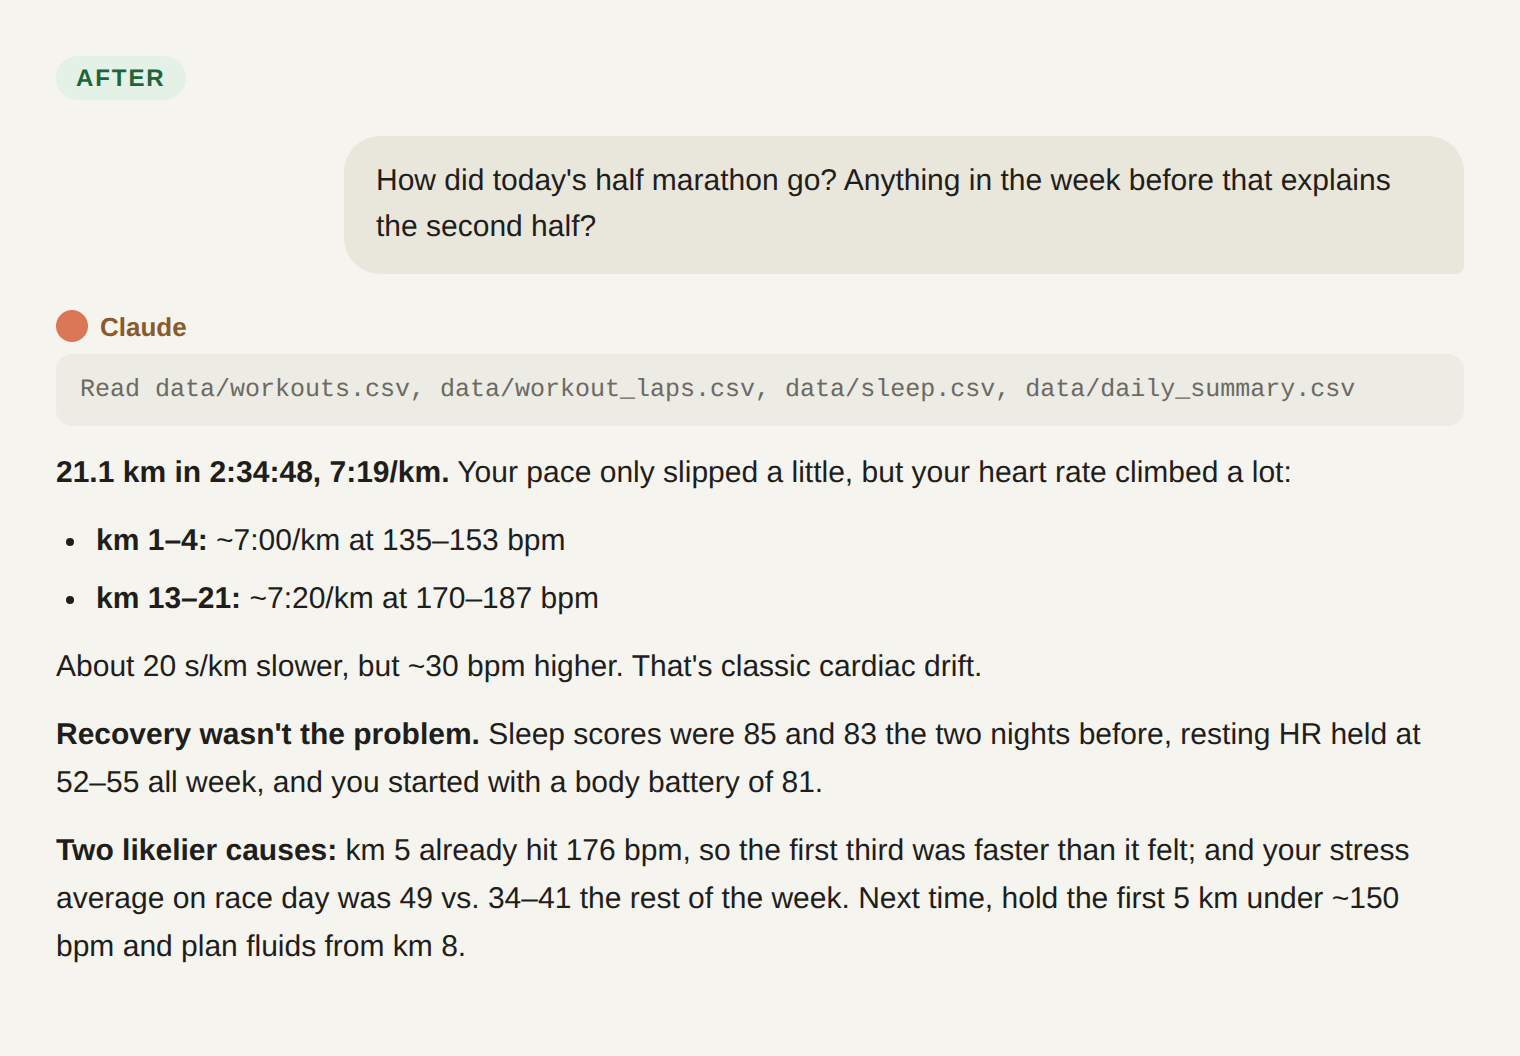
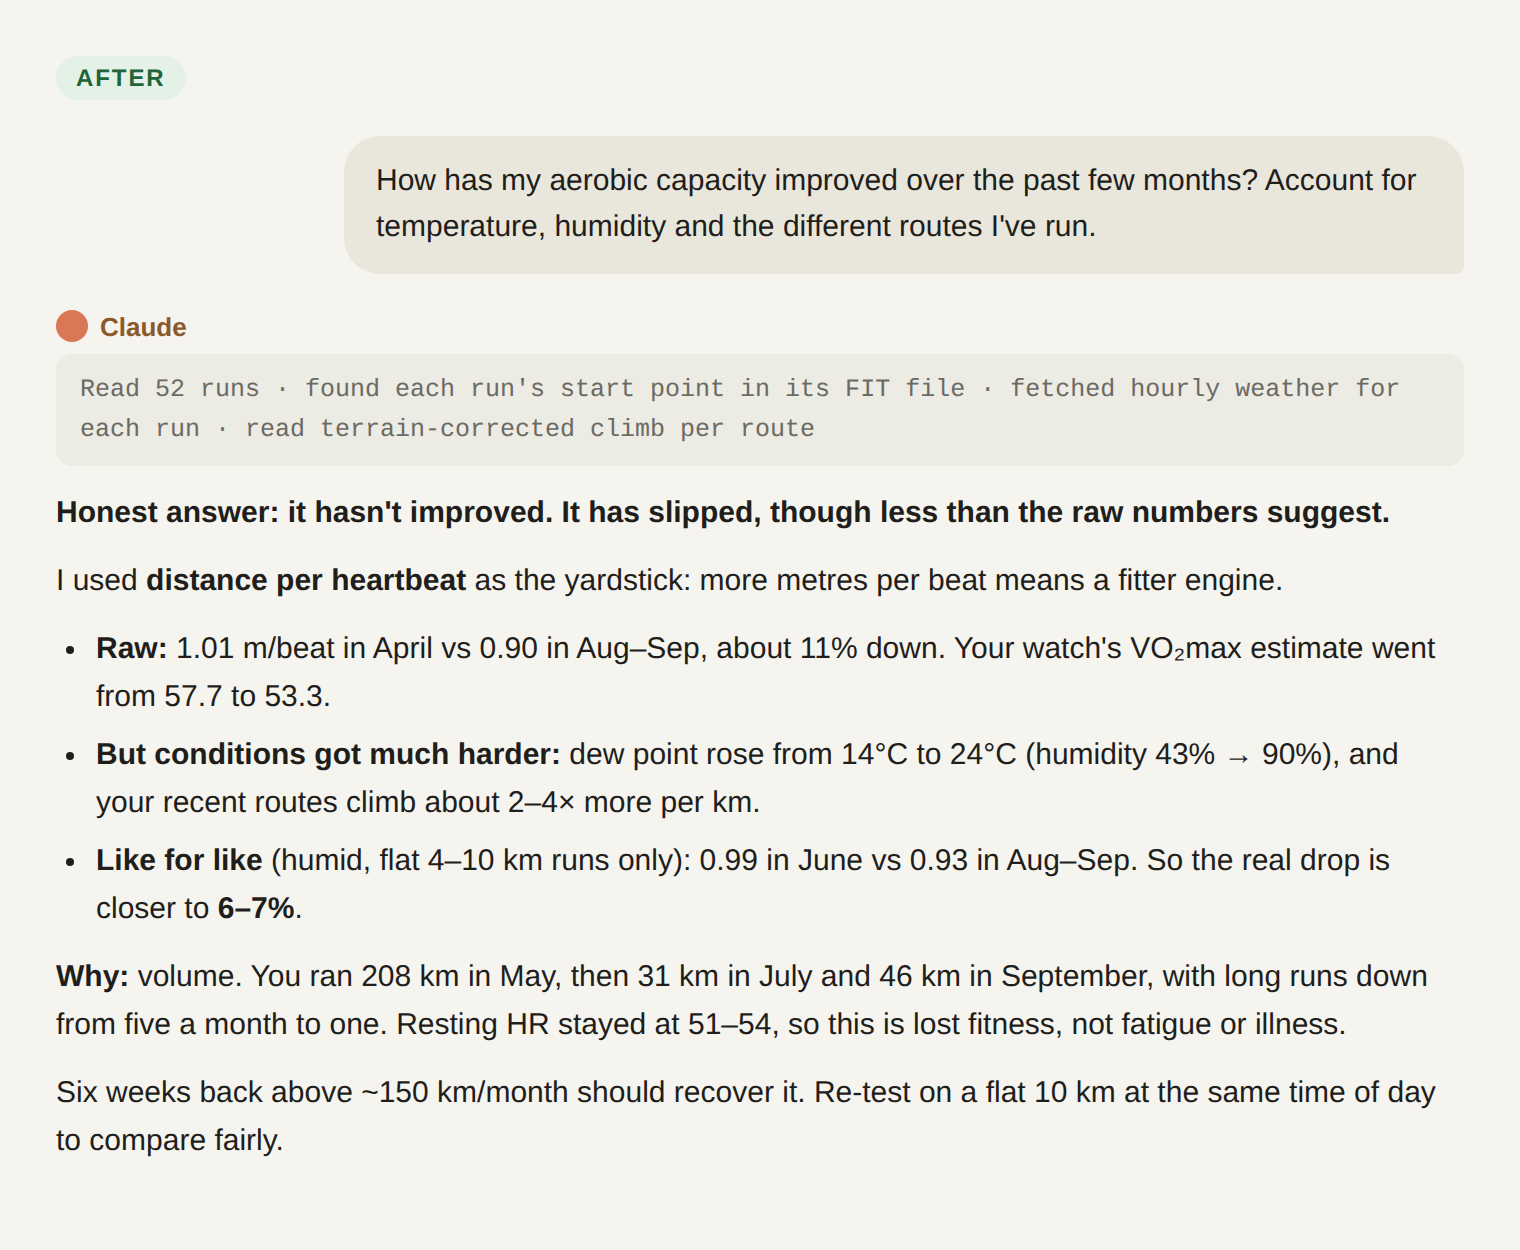
Use aerobic-capacity question in the watch-data post's before/after chats (#2)
* Add post on piping watch data to an LLM via Gadgetbridge and GitSync

Draft until the opening screenshots are added.

Claude-Session: https://claude.ai/code/session_01LU8ChvC7cnXTvSoLecue18

* Use gender-neutral 'intermediary' instead of 'middleman'

Claude-Session: https://claude.ai/code/session_01LU8ChvC7cnXTvSoLecue18

* Add before/after and elevation chat images, explain barometer

- Before/after chat images at the top, elevation chat in the payoff section
- New 'Bonus: why the watch was lying' subsection
- Drop the watch model from the diagram; reword the subtitle

Claude-Session: https://claude.ai/code/session_01LU8ChvC7cnXTvSoLecue18

* Set average HR to 150 in chat image, add note that chats are recreated

Claude-Session: https://claude.ai/code/session_01LU8ChvC7cnXTvSoLecue18

* Give the GitHub Action its own step, publish and pin the post first

Claude-Session: https://claude.ai/code/session_01LU8ChvC7cnXTvSoLecue18

* Use aerobic-capacity question for the before/after chats

The after answer is built from real data: 52 runs, hourly weather at each
run's start point and terrain-corrected climb per route.

Claude-Session: https://claude.ai/code/session_01LU8ChvC7cnXTvSoLecue18

* Rewrite payoff questions to ones that need the whole dataset

Claude-Session: https://claude.ai/code/session_01LU8ChvC7cnXTvSoLecue18

---------

diff --git a/content/posts/piping-my-watch-data-to-an-llm.md b/content/posts/piping-my-watch-data-to-an-llm.md
@@ -30,15 +30,15 @@ First, it was tedious. Every run meant a handful of screenshots and an LLM squin
 
 Second, and more important, the answers were missing context. A run doesn't happen in isolation. How I slept, how stressed the day was, my resting heart rate over the last week: all of these shape how a run goes. The watch was recording all of it, all day, every day. None of it was making it into the conversation. I was asking a coach about my run while hiding everything else from them.
 
-Here's the same half marathon, asked about both ways:
+Here's a question I actually wanted answered, asked both ways:
 
-![Before: three screenshots of the run pasted into the chat, and an answer that can only describe them](/images/health-data/chat-before.png)
+![Before: three run screenshots pasted into the chat, and an answer that can't get started without months of runs, weather and route data](/images/health-data/chat-before.png)
 
-![After: the same question with the data repo attached, and an answer that pulls in splits, sleep, resting heart rate and stress](/images/health-data/chat-after.png)
+![After: the same question with the data repo attached, and an answer that adjusts months of runs for weather and hills, then explains the trend](/images/health-data/chat-after.png)
 
 *The chat screenshots in this post were recreated with AI, so none of my actual chats or personal details end up on the internet. I'm a little paranoid about privacy. 🙈*
 
-The second answer is the one I wanted all along. The rest of this post is how I got from the first to the second.
+The second answer is the one I wanted all along, even if it wasn't the one I was hoping for. To get there, Claude pulled the weather for every run on its own, something no pile of screenshots could have given it. The rest of this post is how I got from the first to the second.
 
 So the problem became: **how do I get *all* of my watch data in front of an LLM, without turning it into a chore?**
 
@@ -110,11 +110,14 @@ So the repo has a `CLAUDE.md` file, which Claude Code reads automatically at the
 
 ## The payoff: better questions
 
-The whole point was richer context, and it delivered. Now I can ask things like:
+The whole point was richer context, and it delivered. The questions worth asking now are the ones that cut across everything the watch records:
 
-- "My long run felt terrible today. Anything in the last three nights of sleep or stress that explains it?"
-- "How has my resting heart rate moved across this training block?"
-- "Compare today's heart rate at marathon pace with the same pace a month ago."
+- "Which actually predicts a good run the next morning: how long I slept, how much deep sleep I got, or what time I went to bed?"
+- "After a long run, how many days until my resting heart rate is back to normal? Is that getting quicker than it was in April?"
+- "Race day is forecast at 24°C and 85% humidity. Based on how I've run in similar weather, what's a realistic marathon pace?"
+- "Do my easy runs drift into hard efforts on high-stress days?"
+
+None of these are about a single run, and none could be answered from a screenshot.
 
 My favourite moment though was one I wouldn't have got with screenshots. My watch kept reporting absurd climbs on flat routes, so I asked:
 
